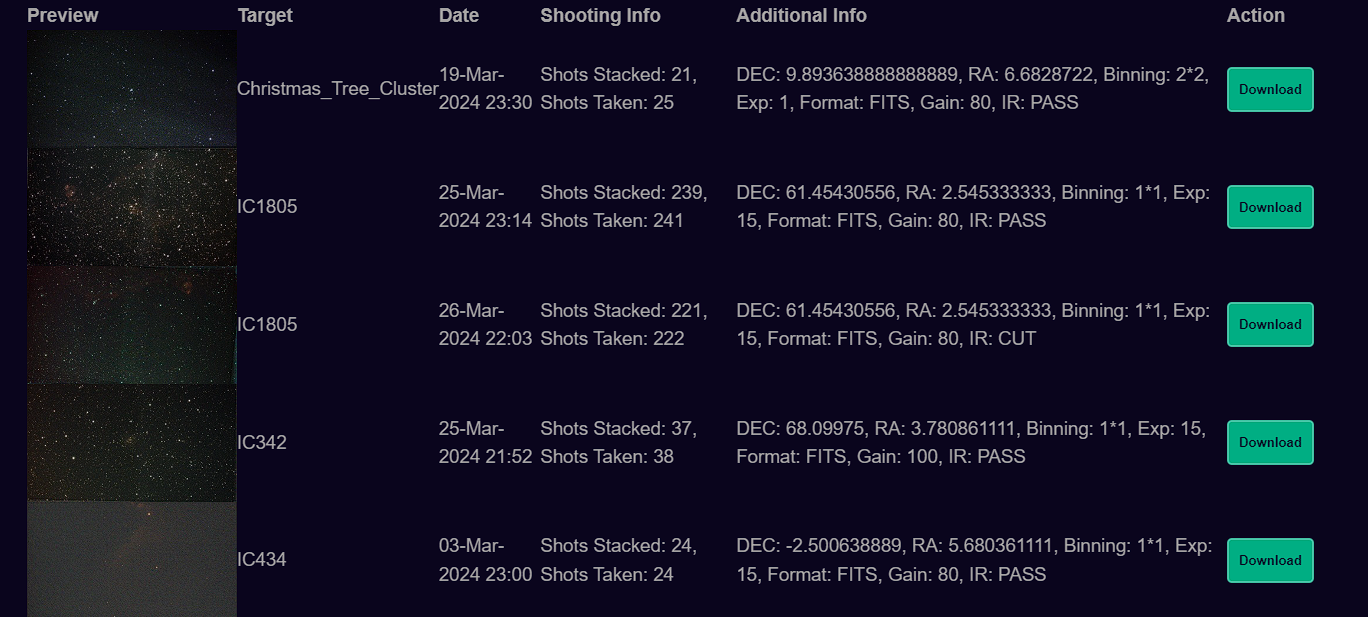
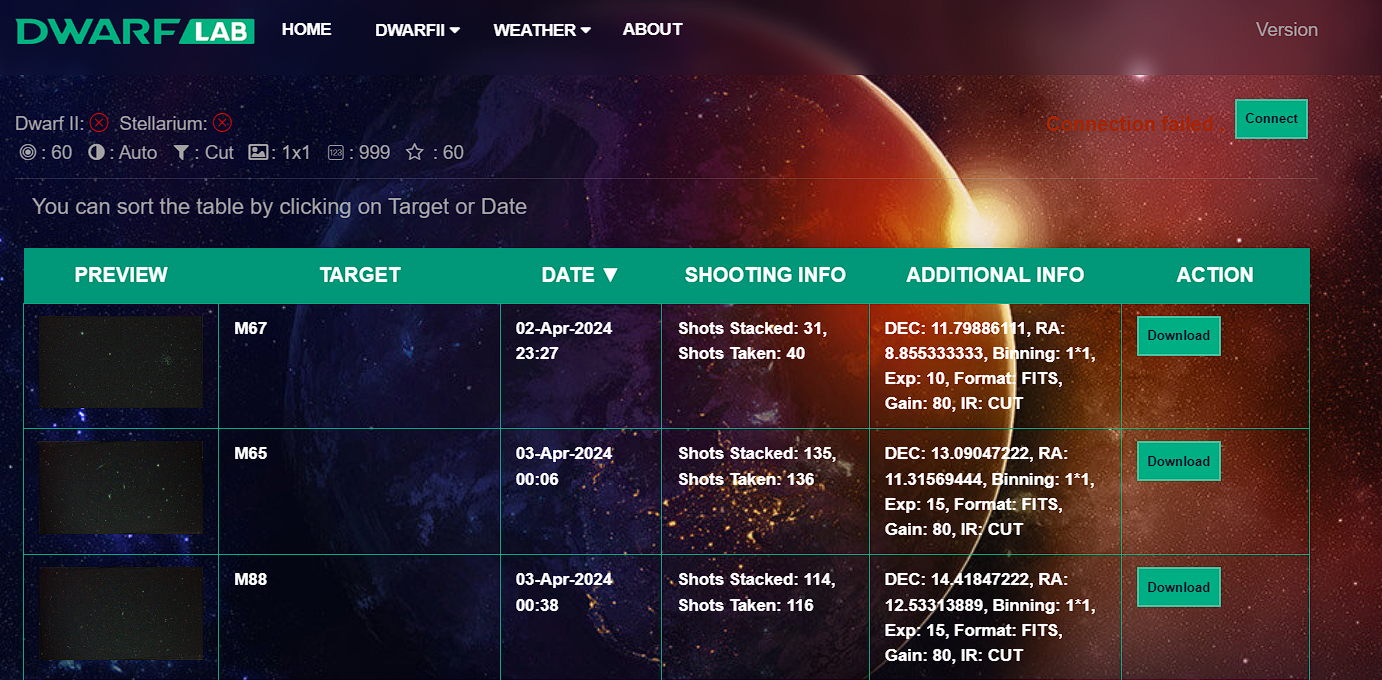
update readme

diff --git a/README.md b/README.md
@@ -12,6 +12,17 @@ You have access to your session data for inspection and Download
 
 ![screenshot of session data](images/session-data.png) –
 
+# Dwarf II Camera
+
+You can control the telescope the same way as in the app.
+
+![screenshot of session data](images/camera.png) –
+
+# Automated updates for Application Version
+
+The Desktop Application is available for Windows, MAC Os and Linux
+
+![screenshot of session data](images/updates.png) –
 
 ## Setup for coders
 
